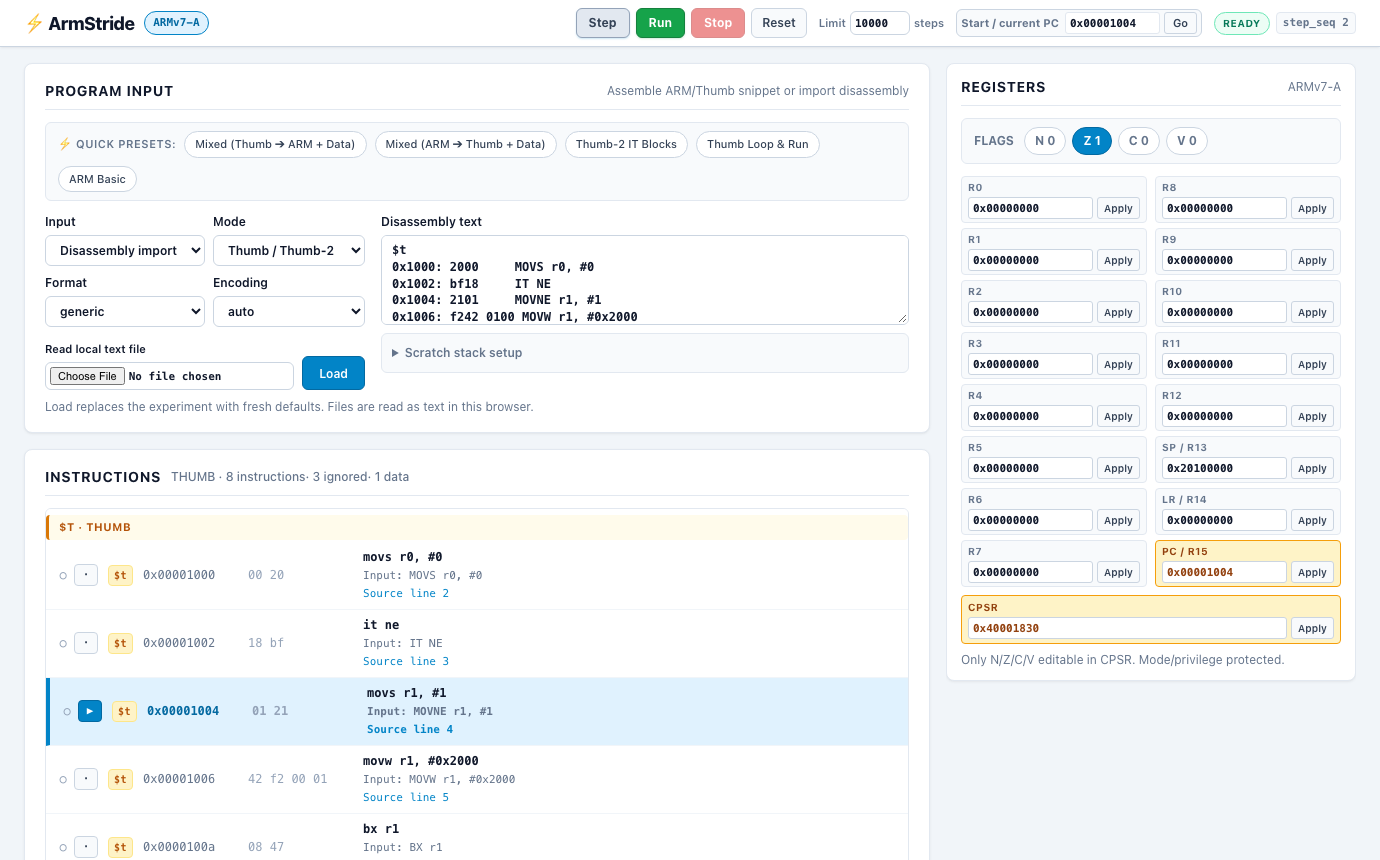
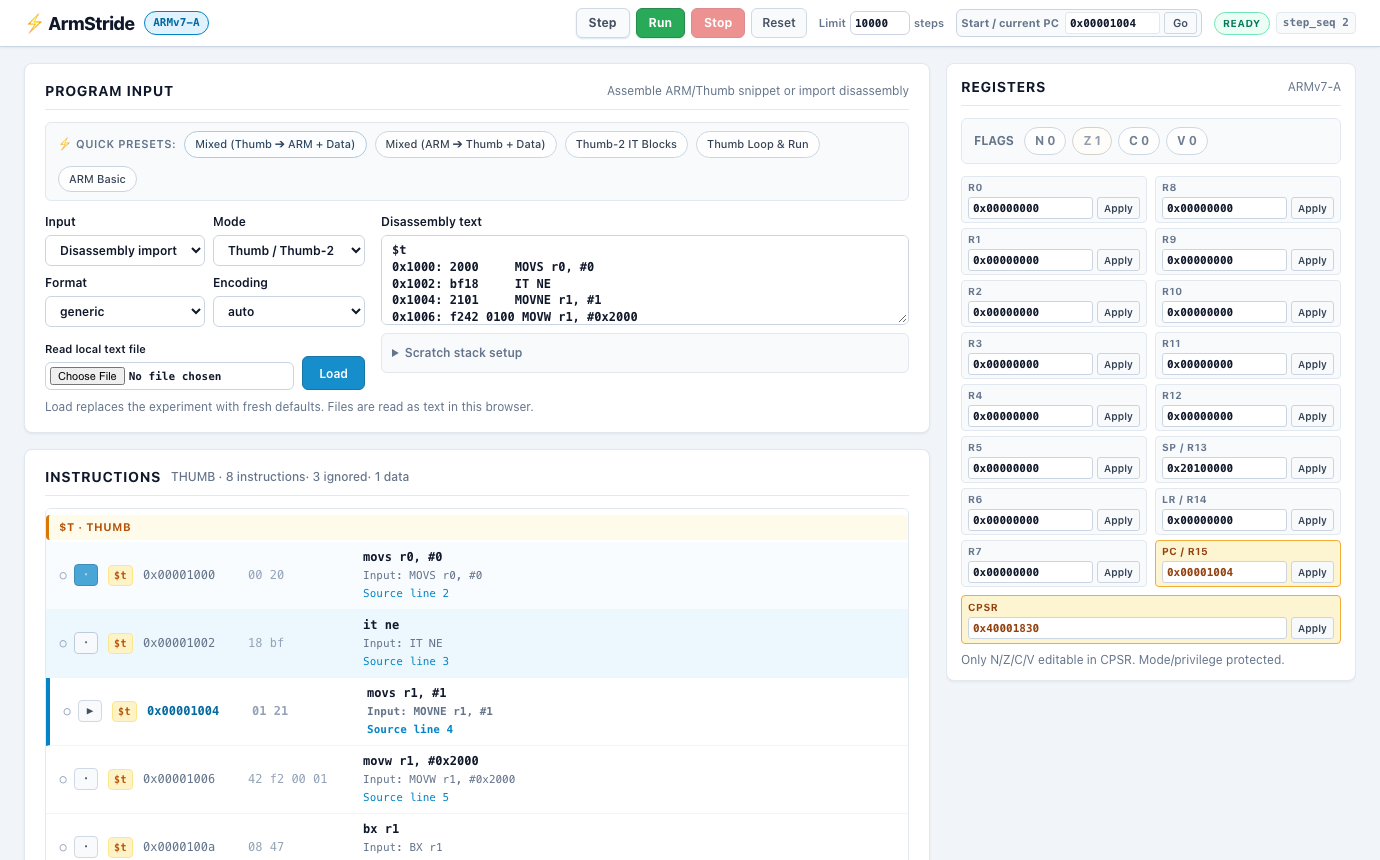
docs(readme): update feature screenshots to match unified top navbar
- Re-captured feature_disassembly.png and feature_fault_rollback.png with modern sticky header
- Unified viewport resolution (1380x860) and styling across all showcase assets
- Configured playwright-screenshots runner to automate reproducible doc asset generation

Changed region(s): [[0.0312, 0.786, 0.6855, 0.8767], [0.0312, 0.6651, 0.0935, 0.6953], [0.779, 0.1512, 0.8101, 0.1814]]

diff --git a/scripts/generate_screenshots.spec.ts b/scripts/generate_screenshots.spec.ts
@@ -1,29 +1,34 @@
 import { test } from '@playwright/test';
+import * as path from 'path';
+
+const ASSETS_DIR = path.resolve(__dirname, '../docs/assets');
 
 test.describe('Generate documentation screenshots', () => {
-  test('capture all showcase screenshots', async ({ page }) => {
-    // 1. Hero Workspace
-    await page.setViewportSize({ width: 1360, height: 1050 });
+  test('capture 1. Hero Workspace', async ({ page }) => {
+    await page.setViewportSize({ width: 1380, height: 860 });
     await page.goto('/');
-    
-    const heroCode = `mov r0, #42
-mov r1, #10
-add r2, r0, r1
-str r2, [sp, #-4]!
-pop {r3}`;
-    await page.getByLabel('Assembly source', { exact: true }).fill(heroCode);
-    await page.getByRole('button', { name: 'Load', exact: true }).click();
+    await page.locator('main[aria-busy="false"]').waitFor();
+
+    // Load Mixed (Thumb -> ARM + Data) preset
+    await page.getByRole('button', { name: 'Mixed (Thumb ➔ ARM + Data)', exact: true }).click();
     await page.locator('main[aria-busy="false"]').waitFor();
 
     const stepBtn = page.getByRole('button', { name: 'Step', exact: true });
-    for (let i = 0; i < 4; i++) {
-      await stepBtn.click();
-      await page.locator('main[aria-busy="false"]').waitFor();
-    }
-    await page.screenshot({ path: '../docs/assets/hero_workspace.png', fullPage: true });
+    await stepBtn.click();
+    await page.locator('main[aria-busy="false"]').waitFor();
+    await stepBtn.click();
+    await page.locator('main[aria-busy="false"]').waitFor();
 
-    // 2. Disassembly Import Workflow
+    await page.screenshot({
+      path: path.join(ASSETS_DIR, 'hero_workspace.png'),
+    });
+  });
+
+  test('capture 2. Disassembly Import Workflow', async ({ page }) => {
+    await page.setViewportSize({ width: 1380, height: 860 });
     await page.goto('/');
+    await page.locator('main[aria-busy="false"]').waitFor();
+
     await page.getByRole('combobox', { name: 'Input', exact: true }).selectOption('disassembly');
     const disasm = `1000: E3A0002A  MOV  r0, #42
 1004: E2801008  ADD  r1, r0, #8
@@ -32,24 +37,38 @@ pop {r3}`;
     await page.getByLabel('Disassembly text', { exact: true }).fill(disasm);
     await page.getByRole('button', { name: 'Load', exact: true }).click();
     await page.locator('main[aria-busy="false"]').waitFor();
-    await stepBtn.click();
-    await page.locator('main[aria-busy="false"]').waitFor();
-    await stepBtn.click();
-    await page.locator('main[aria-busy="false"]').waitFor();
-    await page.screenshot({ path: '../docs/assets/feature_disassembly.png', fullPage: true });
 
-    // 3. Memory Fault & Deterministic Rollback
+    const stepBtn = page.getByRole('button', { name: 'Step', exact: true });
+    await stepBtn.click();
+    await page.locator('main[aria-busy="false"]').waitFor();
+    await stepBtn.click();
+    await page.locator('main[aria-busy="false"]').waitFor();
+
+    await page.screenshot({
+      path: path.join(ASSETS_DIR, 'feature_disassembly.png'),
+    });
+  });
+
+  test('capture 3. Memory Fault & Deterministic Rollback', async ({ page }) => {
+    await page.setViewportSize({ width: 1380, height: 1240 });
     await page.goto('/');
+    await page.locator('main[aria-busy="false"]').waitFor();
+
     const faultCode = `mov r1, #0x50000000
 ldr r0, [r1]`;
     await page.getByLabel('Assembly source', { exact: true }).fill(faultCode);
     await page.getByRole('button', { name: 'Load', exact: true }).click();
     await page.locator('main[aria-busy="false"]').waitFor();
+
+    const stepBtn = page.getByRole('button', { name: 'Step', exact: true });
     await stepBtn.click();
     await page.locator('main[aria-busy="false"]').waitFor();
     // Second step attempts to read unmapped 0x50000000
     await stepBtn.click();
     await page.locator('main[aria-busy="false"]').waitFor();
-    await page.screenshot({ path: '../docs/assets/feature_fault_rollback.png', fullPage: true });
+
+    await page.screenshot({
+      path: path.join(ASSETS_DIR, 'feature_fault_rollback.png'),
+    });
   });
 });

diff --git a/frontend/playwright-screenshots.config.ts b/frontend/playwright-screenshots.config.ts
@@ -1,0 +1,17 @@
+import { defineConfig } from '@playwright/test';
+
+export default defineConfig({
+  testDir: '../scripts',
+  testMatch: 'generate_screenshots.spec.ts',
+  fullyParallel: false,
+  workers: 1,
+  use: {
+    baseURL: 'http://127.0.0.1:8765',
+    browserName: 'chromium',
+  },
+  webServer: {
+    command: '../.venv/bin/armstride --port 8765',
+    url: 'http://127.0.0.1:8765',
+    reuseExistingServer: false,
+  },
+});
